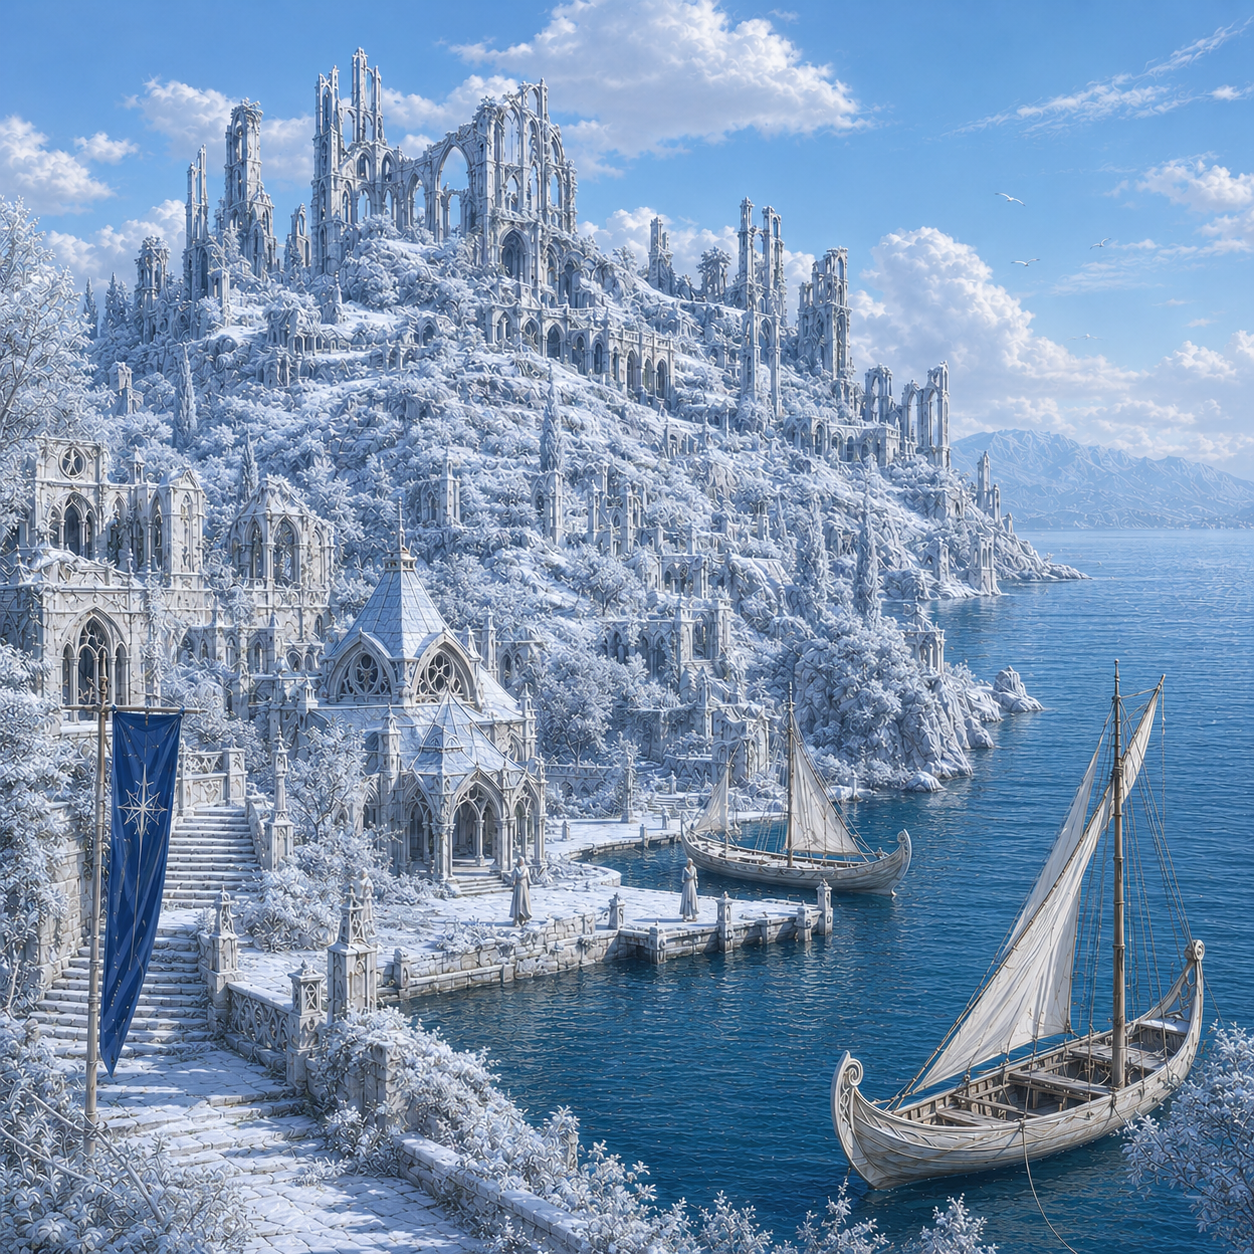
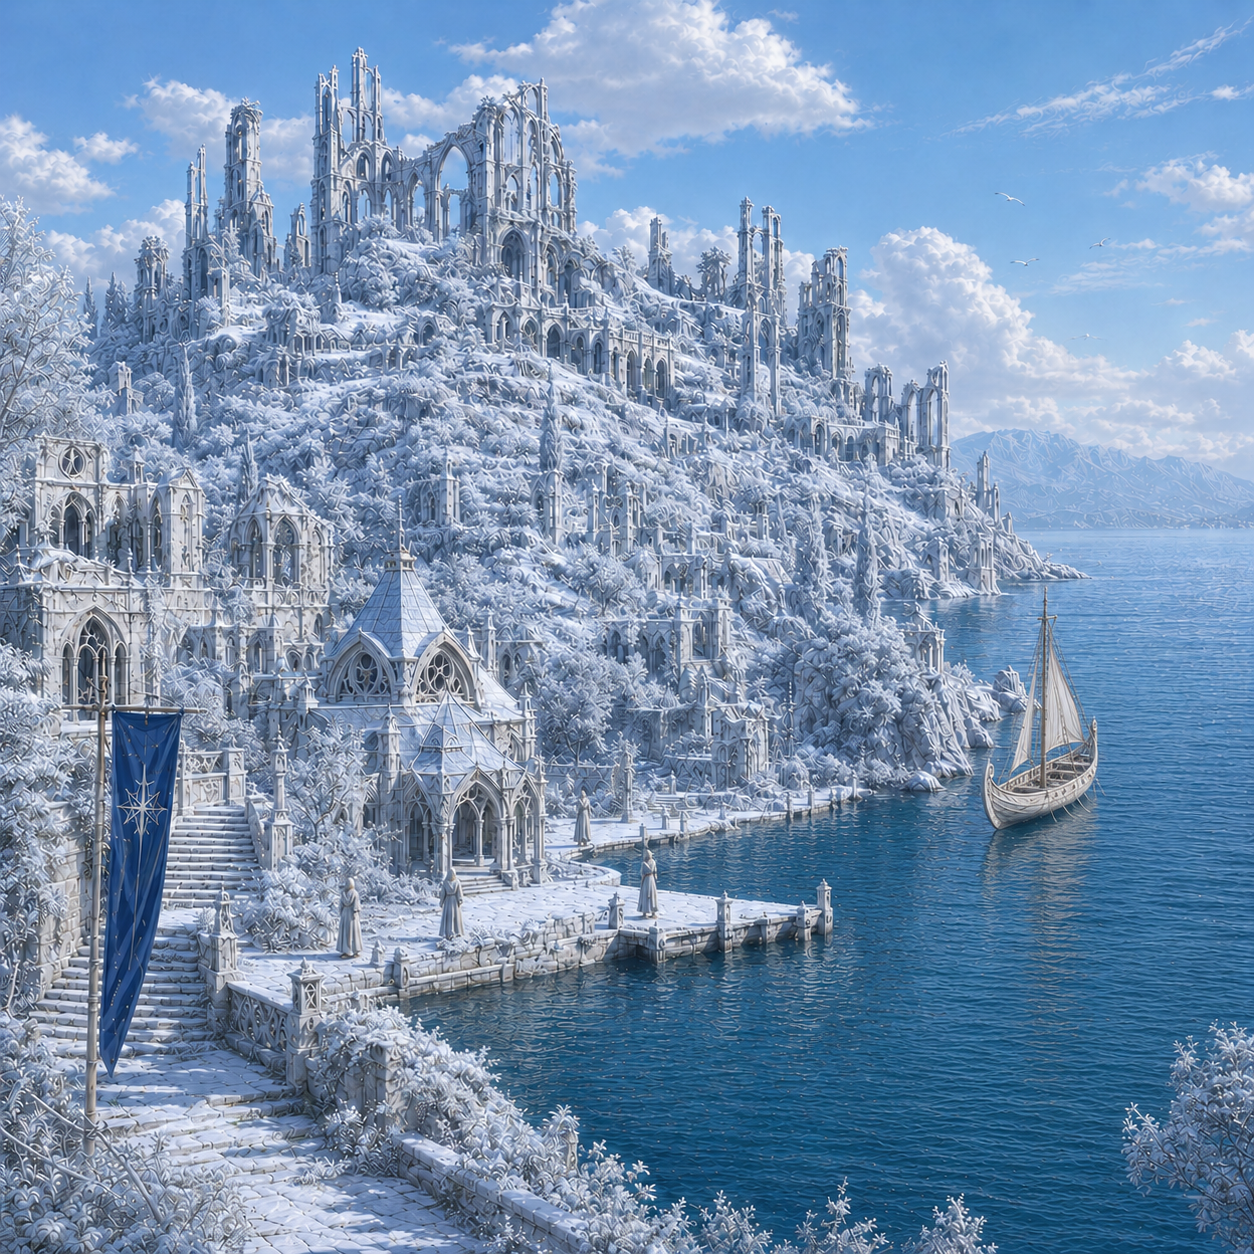
winter

Changed region(s): [[0.0, 0.0622, 1.0, 1.0], [0.2488, 0.9952, 0.3421, 1.0]]

diff --git a/components/MiddleEarthMap.tsx b/components/MiddleEarthMap.tsx
@@ -157,6 +157,7 @@ function writeSavedSpeed(kind: keyof SavedSpeeds, value: number) {
 }
 
 const MILES_PER_DAY = 30;
+const INITIAL_FOOD_DAYS = 3;
 const PATH_SAMPLE_DISTANCE = 12;
 const MOVE_SUBSTEPS = 4;
 // Ring bearer picks up a left-behind companion within this map distance.
@@ -902,14 +903,31 @@ function seasonAt(dayOffset: number): Season {
   return "winter";
 }
 
-// Folder of location artwork per season. Only the autumn set exists for now —
-// the others fall back to it until their folders are added.
+// Folder of location artwork per season. Spring/summer sets are partial — fall
+// remains the fallback until every location has seasonal art.
 const SEASON_FOLDER: Record<Season, string> = {
   spring: "fall",
   summer: "fall",
   fall: "fall",
-  winter: "fall",
+  winter: "winter",
 };
+
+const preloadedLocationImages = new Set<string>();
+
+function preloadLocationImage(src: string): Promise<void> {
+  if (preloadedLocationImages.has(src)) {
+    return Promise.resolve();
+  }
+  return new Promise((resolve) => {
+    const img = new Image();
+    img.onload = () => {
+      preloadedLocationImages.add(src);
+      resolve();
+    };
+    img.onerror = () => resolve();
+    img.src = src;
+  });
+}
 
 // Month is 1-based (9 = сентябрь). Day offset 0 = START_DATE.
 function dateToDayOffset(day: number, month1Based: number, year: number): number {
@@ -1201,7 +1219,7 @@ function HoverHint({
 // Square location artwork shown on entering a town. A pulsing skeleton holds
 // the space until the image loads, then it fades in. Remount (via key) per town.
 function LocationPreview({ src, alt }: { src: string; alt: string }) {
-  const [loaded, setLoaded] = useState(false);
+  const [loaded, setLoaded] = useState(() => preloadedLocationImages.has(src));
   return (
     <div className="relative mx-auto my-4 aspect-square w-full max-w-[400px] overflow-hidden rounded border border-neutral-700 bg-neutral-800 sm:aspect-[4/3]">
       {!loaded && <div className="absolute inset-0 animate-pulse bg-neutral-800" />}
@@ -1236,6 +1254,8 @@ export default function MiddleEarthMap() {
   const frameRef = useRef<number | null>(null);
   const journeyMilesRef = useRef(0);
   const journeyDayRef = useRef(0);
+  const openVisitedLocationRef = useRef<(location: MapLocation) => void>(() => {});
+  const initialLocationOpenedRef = useRef(false);
   const lastTimeRef = useRef<number | null>(null);
   const playerRef = useRef<Point | null>(null);
   const terrainRef = useRef<TerrainGrid | null>(null);
@@ -1305,8 +1325,8 @@ export default function MiddleEarthMap() {
   const [targetLocation, setTargetLocation] = useState<MapLocation | null>(null);
   // A companion left on the map that we're walking toward (invite on arrival).
   const [targetMemberId, setTargetMemberId] = useState<string | null>(null);
-  // The game opens with the Hobbiton location card (recruit Sam, take supplies).
-  const [visitedLocation, setVisitedLocation] = useState<MapLocation | null>(hobbiton);
+  // Location card opens after its seasonal artwork has been preloaded.
+  const [visitedLocation, setVisitedLocation] = useState<MapLocation | null>(null);
   const [isMoving, setIsMoving] = useState(false);
   const [terrainReady, setTerrainReady] = useState(false);
   const [showTerrain, setShowTerrain] = useState(false);
@@ -1324,7 +1344,7 @@ export default function MiddleEarthMap() {
   // Food (days left) and per-character starvation damage are simulated per day.
   // Damage is per character so new recruits join at full health; with double
   // rations on, a damaged party heals at the cost of extra food.
-  const [food, setFood] = useState(0);
+  const [food, setFood] = useState(INITIAL_FOOD_DAYS);
   const [damageById, setDamageById] = useState<Record<string, number>>({});
   const [deathNotice, setDeathNotice] = useState<{ ids: string; cause: DeathCause } | null>(null);
   const [deathCauseById, setDeathCauseById] = useState<Record<string, DeathCause>>({});
@@ -1363,11 +1383,32 @@ export default function MiddleEarthMap() {
   const prevJourneyDayForRingRef = useRef(0);
   const prevRingWearForRingRef = useRef(0);
   const battleAppliedRef = useRef(false);
-  const foodRef = useRef(0);
+  const foodRef = useRef(INITIAL_FOOD_DAYS);
   const damageRef = useRef<Record<string, number>>({});
   const processedDayRef = useRef(0);
   // Movement halts while any modal is open; the rAF loop reads this.
   const animationPausedRef = useRef(false);
+
+  const openVisitedLocation = useCallback((location: MapLocation) => {
+    const src = locationImage(location.id, seasonAt(journeyDayRef.current));
+    if (!src) {
+      setVisitedLocation(location);
+      return;
+    }
+    void preloadLocationImage(src).then(() => setVisitedLocation(location));
+  }, []);
+
+  useEffect(() => {
+    openVisitedLocationRef.current = openVisitedLocation;
+  }, [openVisitedLocation]);
+
+  useEffect(() => {
+    if (initialLocationOpenedRef.current) {
+      return;
+    }
+    initialLocationOpenedRef.current = true;
+    openVisitedLocation(hobbiton);
+  }, [openVisitedLocation, hobbiton]);
 
   const flashEmote = useCallback((id: string, kind: "refuse" | "joy") => {
     if (emoteTimerRef.current) {
@@ -2277,7 +2318,11 @@ export default function MiddleEarthMap() {
     }
 
     function finishTravel(visitLocation: MapLocation | null) {
-      setVisitedLocation(visitLocation);
+      if (visitLocation) {
+        openVisitedLocationRef.current(visitLocation);
+      } else {
+        setVisitedLocation(null);
+      }
       setTarget(null);
       setTargetLocation(null);
       setTargetMemberId(null);